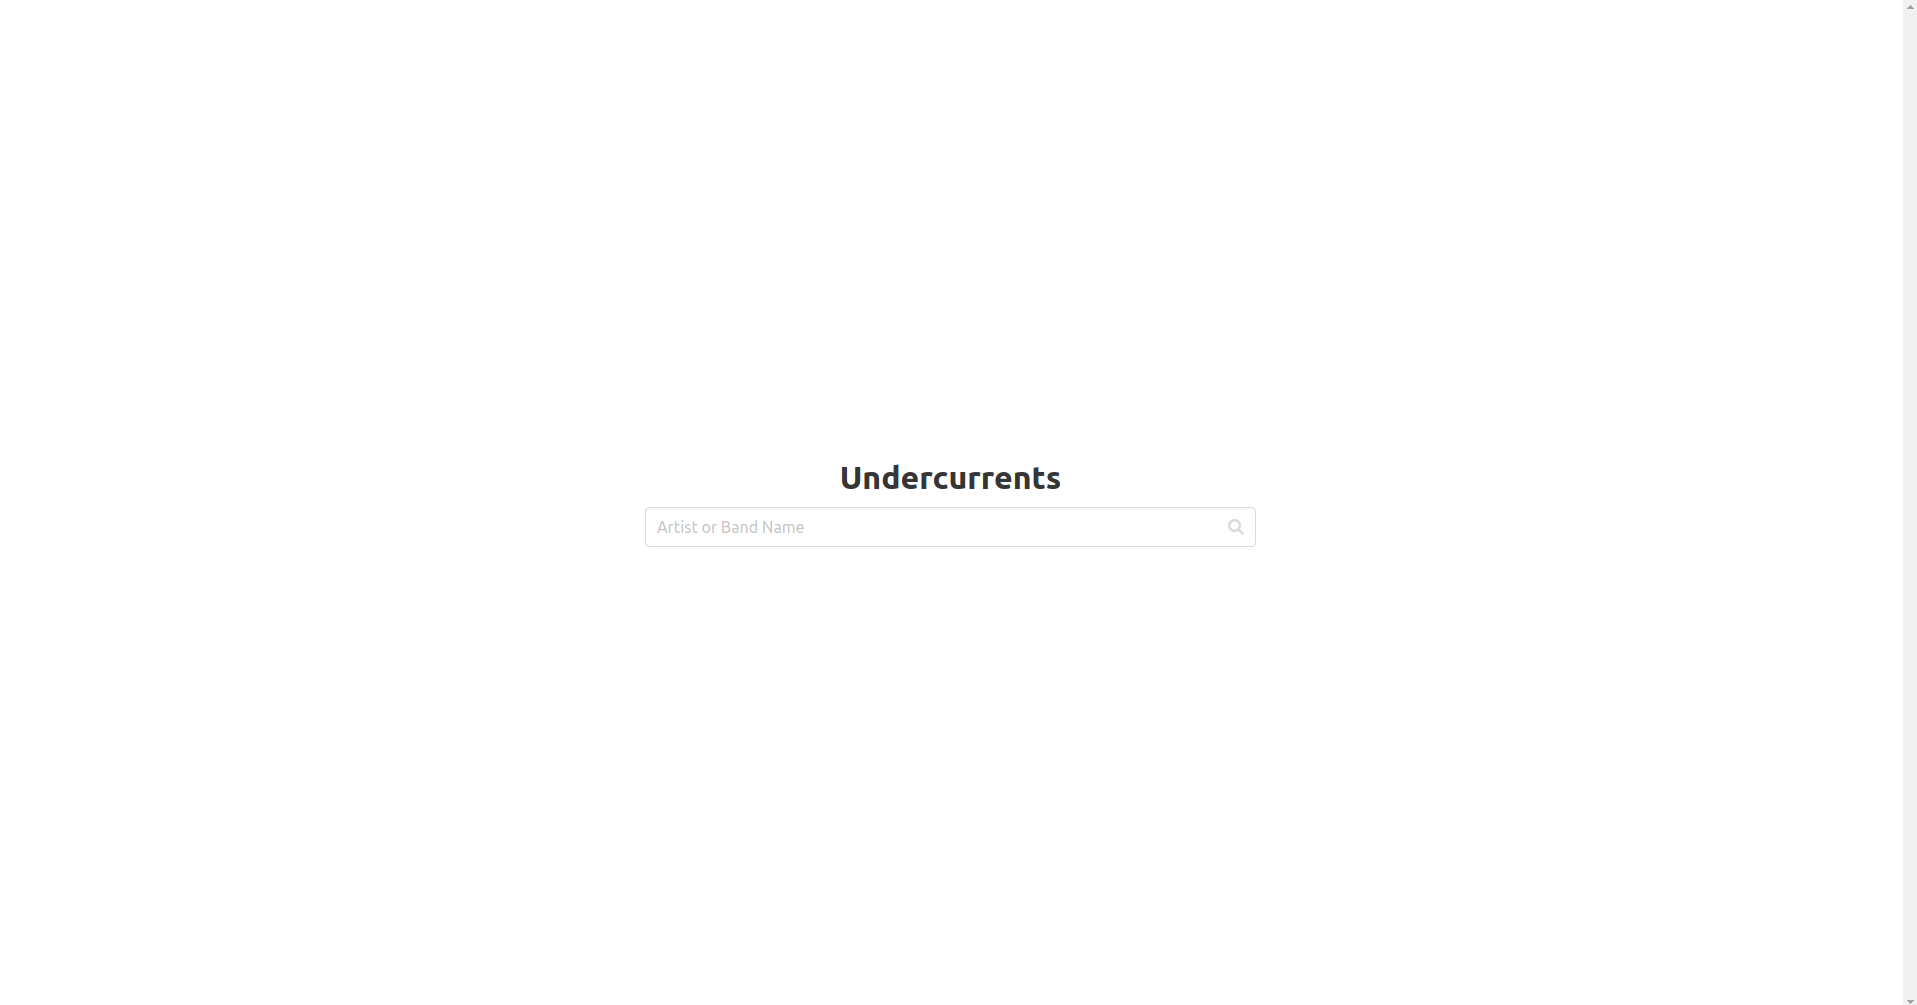
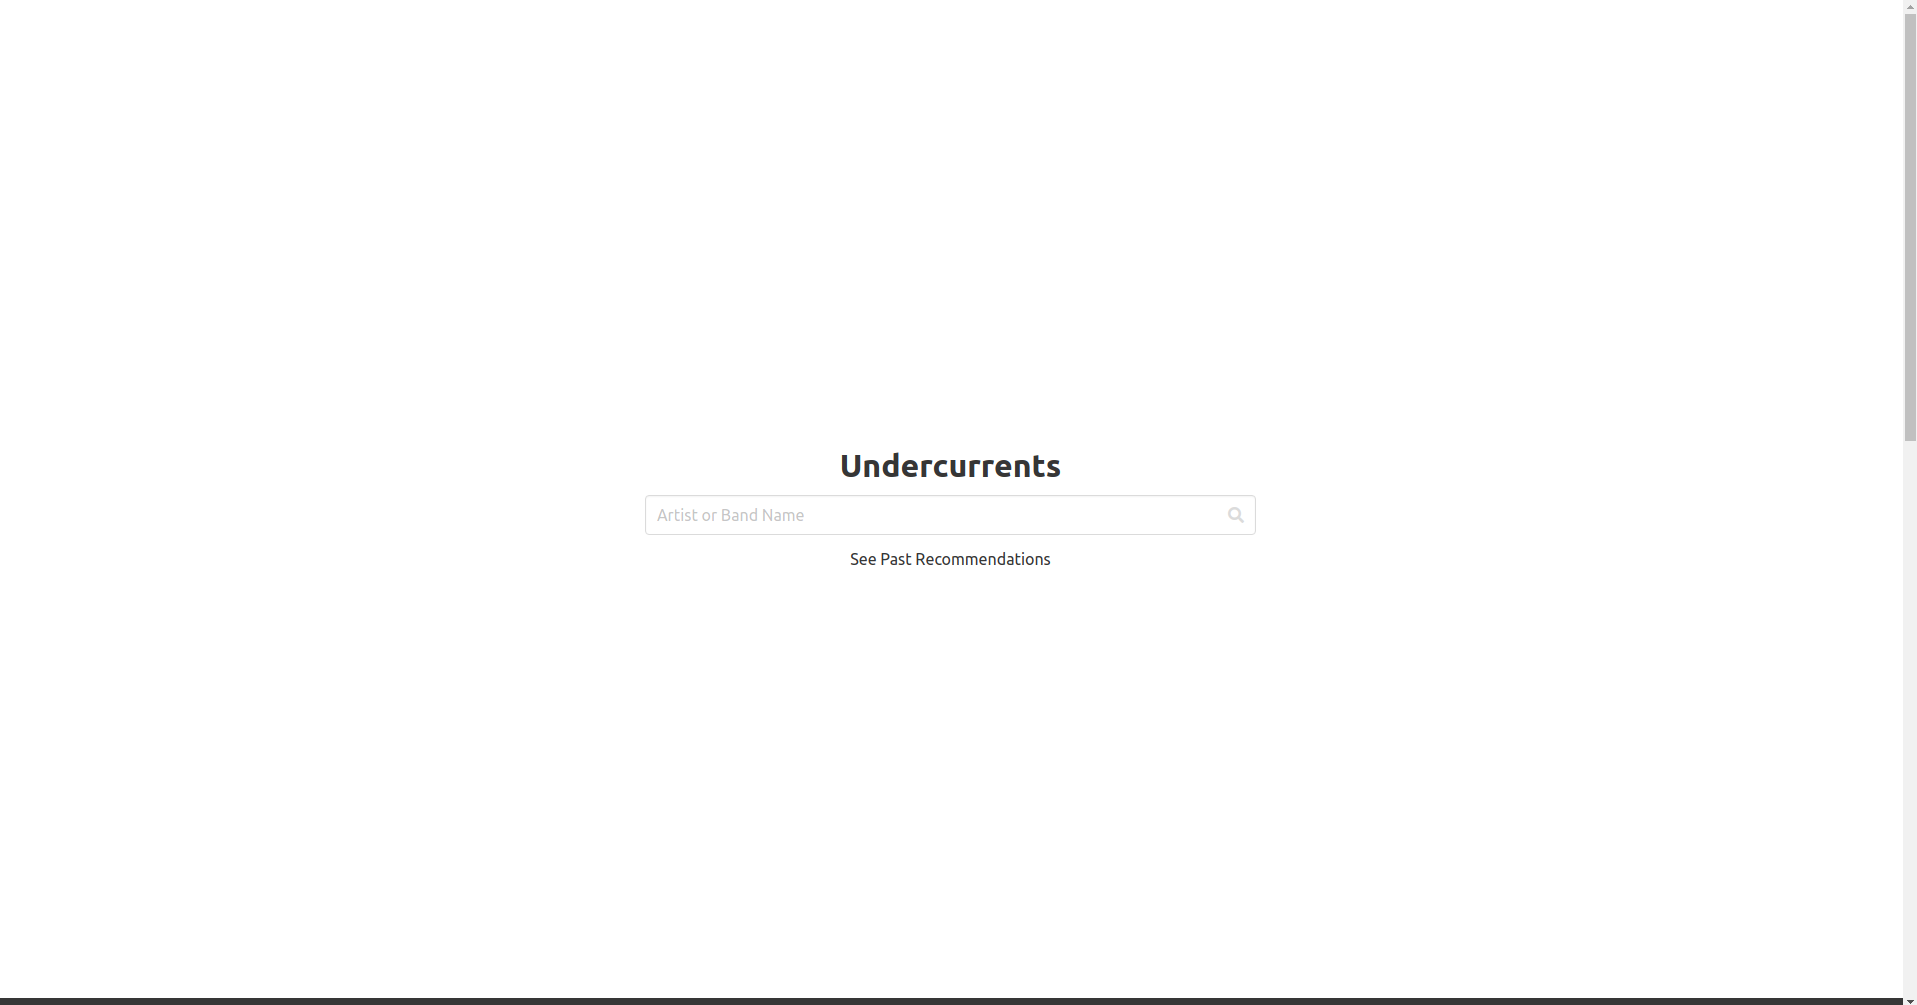
Updated the screenshots of the application. Also added the screenshot of the past recomendations

diff --git a/README.md b/README.md
@@ -21,6 +21,9 @@ The following image shows the landing page of the application.
 The following image shows the search result after the user enters an artist or band name.
 ![Artist search](./assets/images/artist-search.png)
 
+The following image the past recomendations stored in the browsers local storage.
+![Past recomendations](./assets/images/past-recomendations.png)
+
 The following image shows the error message that the application displays when the user searches without entering a name
 ![Blank name error handling](./assets/images/blank-name-error.png)
 
